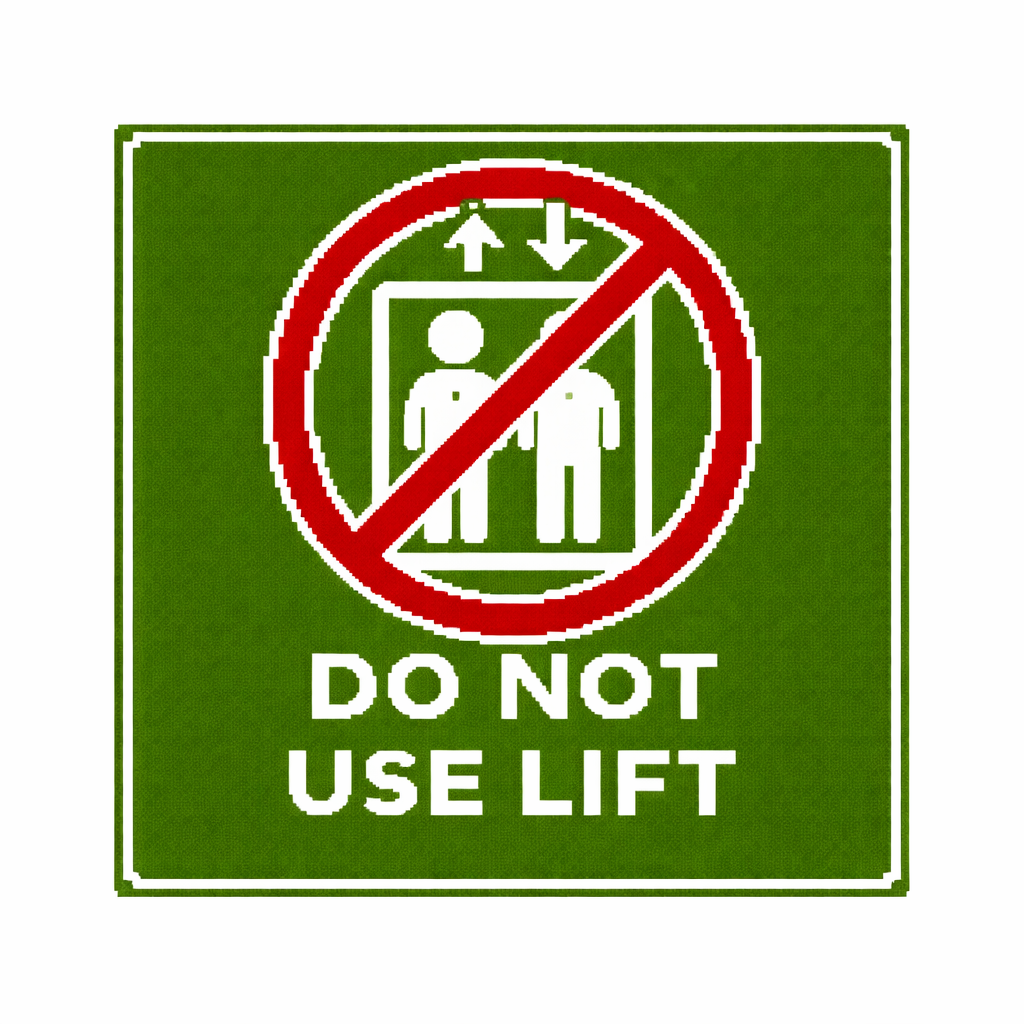
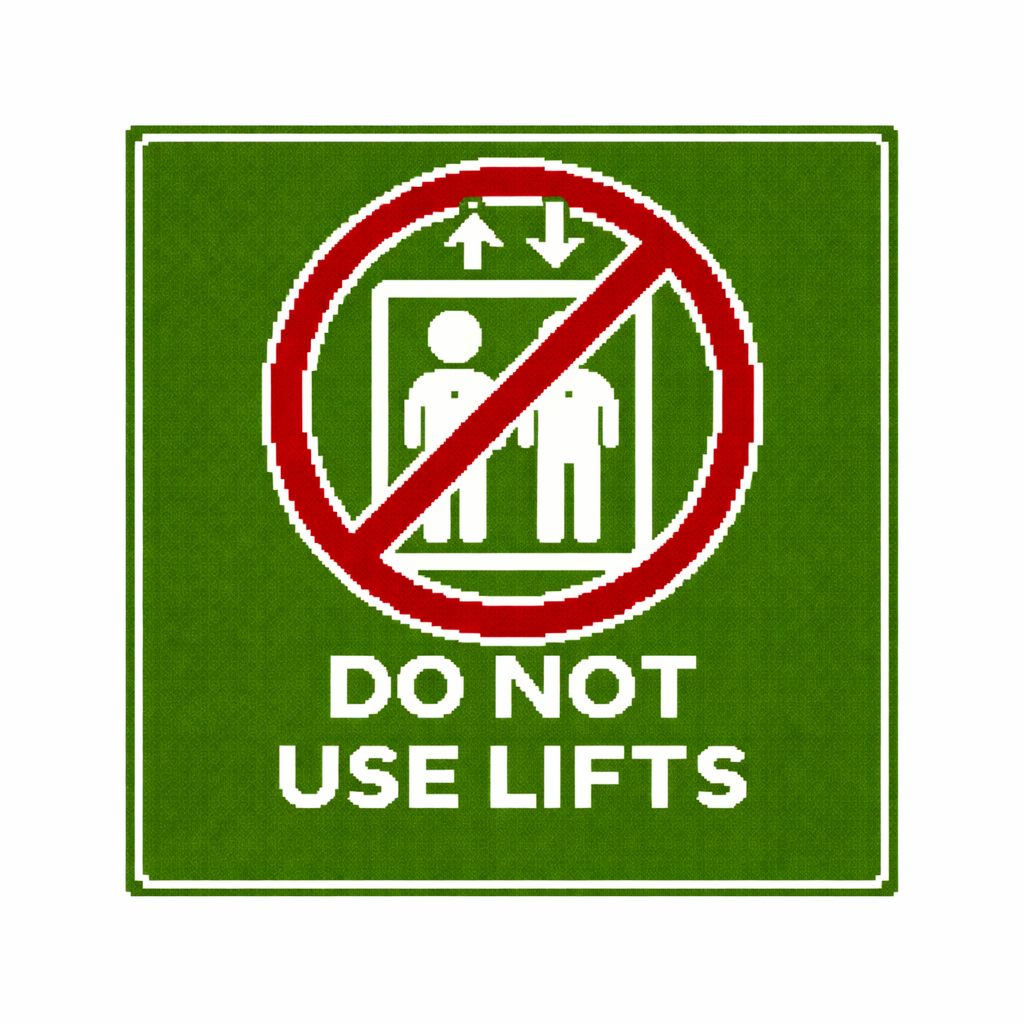
update

diff --git a/script.js b/script.js
@@ -207,11 +207,11 @@ const PAGES = [
     img: "assets/page2-3.png",
     alt: "Fire warden",
     html: `
-      <p><strong>Fire wardens</strong></p>
+      <p><strong>Fire warden</strong></p>
       <p>Listen to instructions from the <strong>fire warden</strong>.</p>
       <p>A fire warden is the person who helps everyone evacuate safely.</p>
     `,
-    tts: "Fire wardens. Listen to instructions from the fire warden. A fire warden is the person who helps everyone evacuate safely."
+    tts: "Fire warden. Listen to instructions from the fire warden. A fire warden is the person who helps everyone evacuate safely."
   },
 
   {
@@ -294,11 +294,11 @@ const PAGES = [
 
     {
       img: "assets/page4-3.png",
-      alt: "Do not use the lift",
+      alt: "Do not use lifts",
       html: `
         <p><strong>Do not use the lift.</strong></p>
       `,
-      tts: "Do not use the lift."
+      tts: "Do not use lifts."
     },
 
     {
@@ -433,7 +433,7 @@ const PAGES = [
 
         <p class="caption">
           There is another emergency exit near the locker area.<br>
-          Use this exit if you are closer to you.
+          Use this exit if you are closer to it.
         </p>
       </section>
     `
@@ -469,7 +469,7 @@ const PAGES = [
    {
   kind: "map",
   bg: PALETTE.pink,
-  tts: "This is our assembly area. After leaving the building, go to the writtle park.",
+  tts: "This is our assembly area. After leaving the building, go to the writtle park. The assembly area is the place where everyone gathers after leaving the building. ",
 
   render: () => `
     <section class="slide">
@@ -488,8 +488,9 @@ const PAGES = [
       </div>
 
       <p class="caption">
-        After leaving the building,<br>
-        go to the <strong>writtle park</strong>.
+        After leaving the building,
+        go to the <strong>writtle park</strong>.<br>
+        The <strong>assembly area</strong> is the place where everyone gathers after leaving the building.
       </p>
 
     </section>
@@ -499,7 +500,7 @@ const PAGES = [
   {
     kind: "end",
     bg: PALETTE.navy,
-    tts: "You re ready. You now know where the emergency exits are. and how to leave safely.",
+    tts: "You are ready. You now know where the emergency exits are. and how to leave safely.",
     render: () => `
       <section class="slide cover-slide">
         <div class="tts-topright">
@@ -512,7 +513,7 @@ const PAGES = [
             <img class="cover-hero-img" src="assets/cover-bg.png" alt="Background image" />
 
             <div class="cover-overlay">
-              <h2 class="cover-overlay-title">You’re ready</h2>
+              <h2 class="cover-overlay-title">You are ready</h2>
               <div class="cover-overlay-sub">
                 You now know where the emergency exits are<br>
                 and how to leave safely.

diff --git a/styles.css b/styles.css
@@ -44,6 +44,7 @@ body{
   font-size:22px;
   line-height:1.6;
   margin-top:14px;
+  text-align: center;
 }
 
 .point-nav{
@@ -137,7 +138,7 @@ body{
 .caption{
   max-width: 760px;
   margin: 24px auto 0;
-  font-size: 20px;
+  font-size: 22px;
   line-height: 1.6;
   color: #2b2b2b;
   text-align: center;
@@ -157,7 +158,8 @@ body{
 .cover-hero-img{
   display:block;
   width:100%;
-  height:auto;
+  max-height:95vh;
+  object-fit:cover;
 }
 
 .cover-overlay{
@@ -264,7 +266,7 @@ body{
   border-radius:10px;
   font-size:16px;
   line-height:1.35;
-  text-align:left;
+  text-align:center;
   opacity:0;
   pointer-events:none;
   transition:opacity 0.18s ease;
